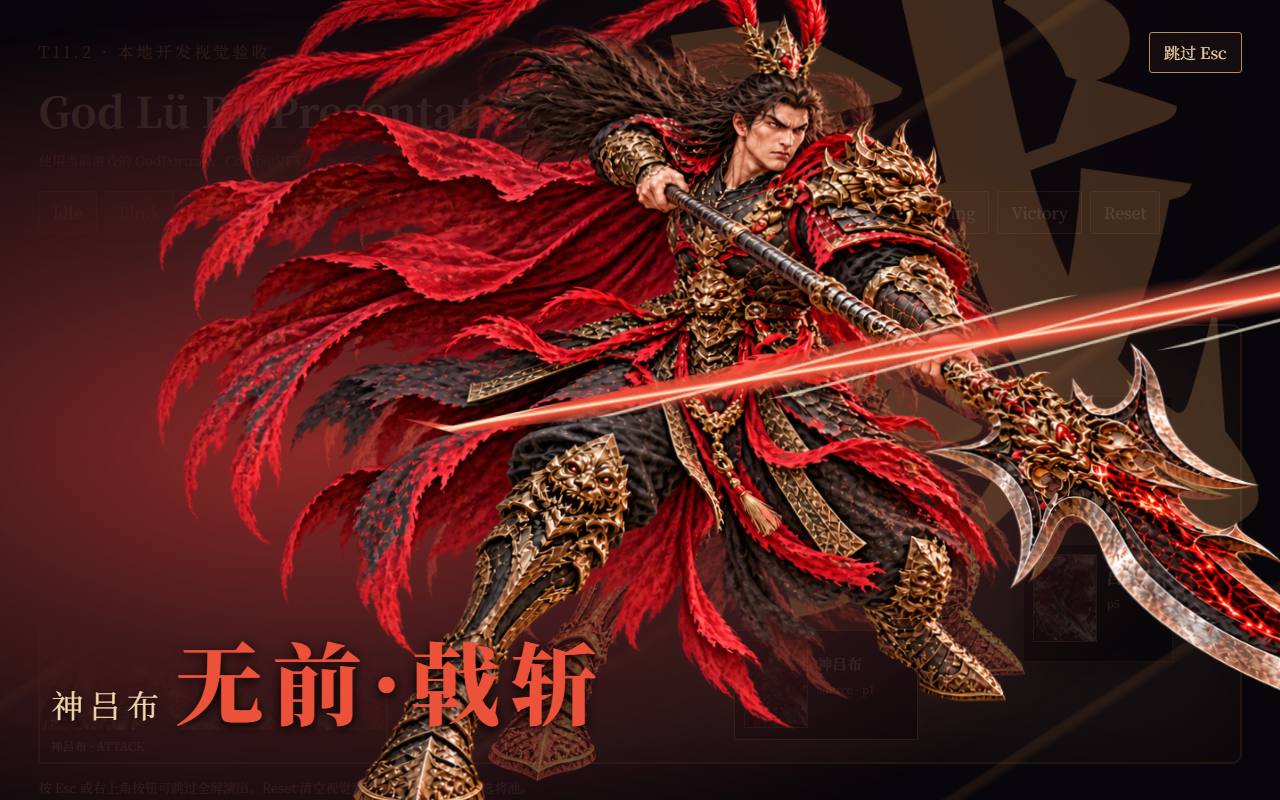
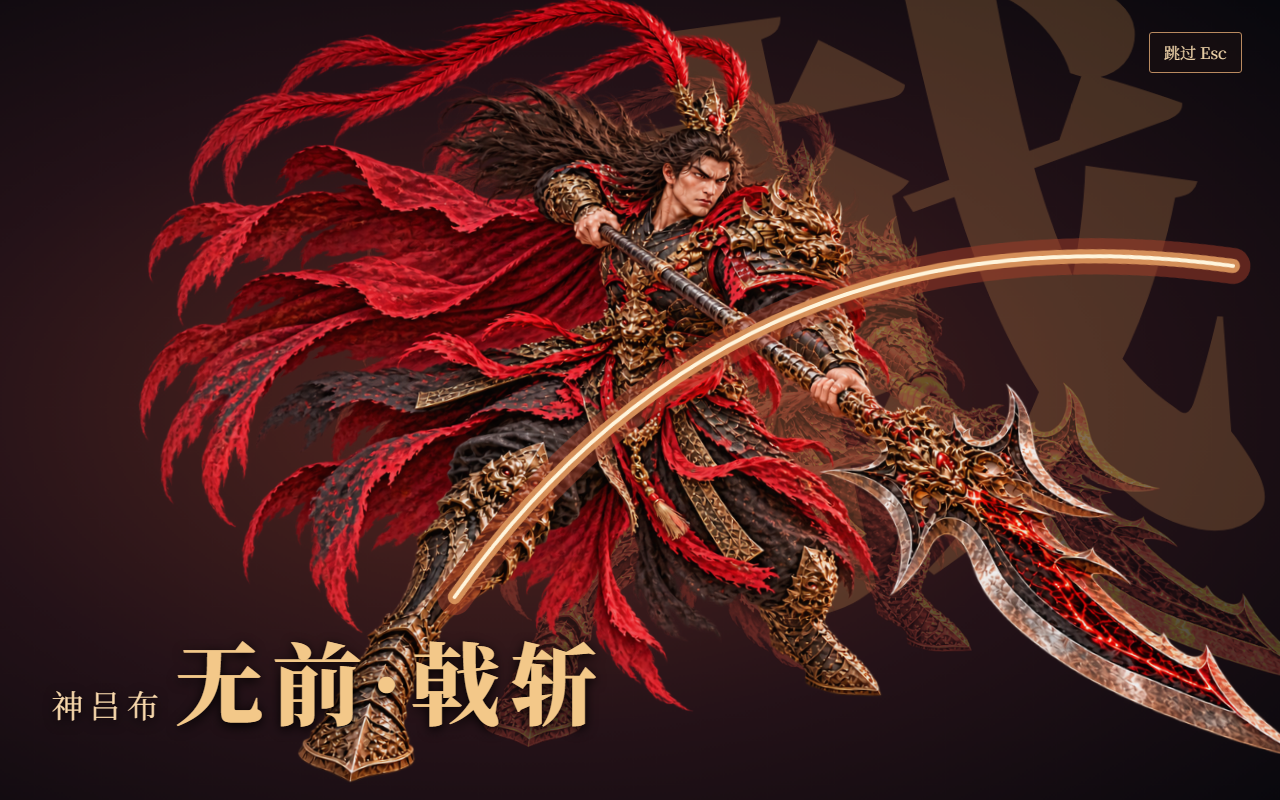
T11.3 unify Lu Bu attacks and fix cinematic resolution

diff --git a/web/src/styles.css b/web/src/styles.css
@@ -451,3 +451,59 @@ input:focus { border-color: #b07a23; box-shadow: 0 0 0 2px rgba(189,135,44,.18);
 
 /* Keep all five seats visible at the common 1366×768 review viewport. */
 .god-preview-hero, .god-preview-board { height: clamp(440px, 52vh, 570px); min-height: 0; }
+
+/* T11.3: one registered, sharp halberd strike for all five card definitions. */
+.god-cinematic-standard { --attack-color: #f3c889; --attack-glow: rgba(229,91,51,.46); }
+.god-cinematic-standard .god-cinematic-backdrop { background: radial-gradient(ellipse at 42% 51%, #572820 0, #241218 46%, #08080d 83%); }
+.god-cinematic-standard .god-cinematic-figure { animation: godStandardFigure var(--cinematic-ms) cubic-bezier(.18,.7,.28,1) both; }
+.god-cinematic-standard .god-cinematic-ready { animation: godStandardReady var(--cinematic-ms) linear both; }
+.god-cinematic-standard .god-cinematic-attack-pose { animation: godStandardPose var(--cinematic-ms) cubic-bezier(.16,.7,.26,1) both; }
+.god-cinematic-standard .god-cinematic-figure .god-body { animation: godStandardTorso var(--cinematic-ms) cubic-bezier(.16,.7,.24,1) both; }
+.god-cinematic-standard .god-cinematic-figure .god-head { animation: godStandardHead var(--cinematic-ms) ease-in-out both; }
+.god-cinematic-standard .god-cinematic-figure .god-strike-limb { animation: godStandardHalberd var(--cinematic-ms) cubic-bezier(.13,.75,.24,1) both; transform-origin: 680px 385px; }
+.god-cinematic-standard .god-cinematic-figure .god-hair-front,
+.god-cinematic-standard .god-cinematic-figure .god-hair-back { animation: godStandardHair var(--cinematic-ms) ease-out both; }
+.god-cinematic-standard .god-cinematic-figure .god-cloth-front,
+.god-cinematic-standard .god-cinematic-figure .god-cloth-back { animation: godStandardCloth var(--cinematic-ms) ease-out both; }
+.god-cinematic-blade { position: absolute; z-index: 4; left: 31%; top: 23%; width: 76%; height: 65%; overflow: visible; opacity: 0; transform-origin: 12% 80%; animation: godStandardBlade var(--cinematic-ms) cubic-bezier(.13,.72,.22,1) both; }
+.god-cinematic-blade-outer { fill: #a73022; opacity: .68; }
+.god-cinematic-blade-core { fill: #d77b3e; }
+.god-cinematic-blade-edge { fill: none; stroke: #fff5cd; stroke-width: 9; stroke-linecap: round; vector-effect: non-scaling-stroke; }
+.god-cinematic-standard .god-cinematic-impact { right: 9%; top: 37%; animation: godStandardImpact var(--cinematic-ms) ease-out both; }
+.god-cinematic-shockwave { position: absolute; z-index: 5; left: 49%; top: 48%; width: 74vmin; height: 74vmin; border: 4px solid #e5ab6c; border-radius: 50%; opacity: 0; transform: translate(-50%,-50%) scale(.1); animation: godShenfenWave var(--cinematic-ms) ease-out both; }
+.god-cinematic-medium .god-cinematic-shockwave { border-width: 2px; }
+.god-cinematic-low .god-cinematic-shockwave { display: none; }
+@keyframes godStandardFigure { 0% { opacity: 0; transform: translateX(-12%) scale(.94); } 15% { opacity: 1; transform: none; } 31% { transform: translate(-2%,-2%) rotate(-2deg); } 52% { transform: translate(8%,1%) rotate(3deg) scale(1.05); } 74% { transform: translate(7%,0) rotate(1deg); opacity: 1; } 100% { transform: translate(4%,0); opacity: 0; } }
+@keyframes godStandardReady { 0%,38% { opacity: 1; } 48%,100% { opacity: 0; } }
+@keyframes godStandardPose { 0%,38% { opacity: 0; transform: translate(-5%,3%) rotate(-4deg) scale(.96); } 49% { opacity: .95; transform: translate(0,-1%) rotate(0) scale(1.04); } 67% { opacity: .9; transform: translate(4%,0) scale(1.08); } 81%,100% { opacity: 0; transform: translate(8%,1%) scale(1.1); } }
+@keyframes godStandardTorso { 0%,18% { transform: none; } 34% { transform: translate(-12px,-15px) rotate(-3deg); } 53% { transform: translate(25px,13px) rotate(4deg); } 72% { transform: translate(9px,5px) rotate(1deg); } 100% { transform: none; } }
+@keyframes godStandardHead { 0%,20% { transform: none; } 34% { transform: translate(-5px,-11px) rotate(-3deg); } 54% { transform: translate(13px,6px) rotate(3deg); } 78%,100% { transform: none; } }
+@keyframes godStandardHalberd { 0%,14% { transform: rotate(-3deg); } 32% { transform: rotate(-19deg) translate(-20px,14px); } 51% { transform: rotate(24deg) translate(39px,-34px); } 66% { transform: rotate(34deg) translate(45px,-28px); } 83% { transform: rotate(-7deg) translate(6px,4px); } 100% { transform: none; } }
+@keyframes godStandardHair { 0% { transform: none; } 32% { transform: translate(-9px,-7px) rotate(-3deg); } 54% { transform: translate(19px,2px) rotate(5deg); } 77% { transform: translate(-7px,3px) rotate(-2deg); } 100% { transform: none; } }
+@keyframes godStandardCloth { 0% { transform: none; } 32% { transform: translate(-10px,3px) rotate(-2deg); } 54% { transform: translate(-31px,15px) rotate(-6deg); } 78% { transform: translate(13px,-5px) rotate(2deg); } 100% { transform: none; } }
+@keyframes godStandardBlade { 0%,39% { opacity: 0; transform: rotate(-30deg) scale(.18,.45); } 48% { opacity: 1; transform: rotate(-12deg) scale(.72,.85); } 59% { opacity: 1; transform: rotate(0) scale(1); } 75%,100% { opacity: 0; transform: rotate(5deg) scale(1.2,1.05); } }
+@keyframes godStandardImpact { 0%,52% { opacity: 0; transform: scale(.25); } 66% { opacity: 1; transform: scale(1.05); } 100% { opacity: 0; transform: scale(1.6); } }
+@keyframes godShenfenWave { 0%,48% { opacity: 0; transform: translate(-50%,-50%) scale(.1); } 65% { opacity: .8; transform: translate(-50%,-50%) scale(1); } 100% { opacity: 0; transform: translate(-50%,-50%) scale(2); } }
+.god-cinematic-reduced .god-cinematic-blade { animation: none !important; opacity: .85; transform: none; }
+.god-cinematic-reduced .god-cinematic-shockwave { display: none; }
+.god-cinematic-reduced .god-cinematic-figure .god-part,
+.god-cinematic-reduced .god-cinematic-figure .god-strike-limb { animation: none !important; transform: none !important; }
+@media (prefers-reduced-motion: reduce) { .god-cinematic-blade, .god-cinematic-shockwave { animation: none !important; } }
+
+/* Keep the reusable strike crisp at desktop scale: three vector strokes, no blur filter. */
+.god-cinematic-blade path { fill: none; stroke-linecap: round; vector-effect: non-scaling-stroke; }
+.god-cinematic-blade-outer { stroke: #a43c29; stroke-width: 38; opacity: .5; }
+.god-cinematic-blade-core { stroke: #d9935b; stroke-width: 15; opacity: .95; }
+.god-cinematic-blade-edge { stroke: #fff5dc; stroke-width: 4; }
+
+/* A 1536px source never expands to the old 95vw war-spirit width at 1080p. */
+.god-cinematic-level-3 .god-cinematic-war-spirit { width: min(80vw, 1536px); }
+/* Medium retains full resolution foreground art while omitting one costly background echo. */
+.god-cinematic-medium.god-cinematic-level-3 .god-cinematic-war-spirit { display: none; }
+
+/* Keep the vector blade at the halberd tip instead of spanning the entire screen. */
+.god-cinematic-blade { left: 44%; top: 34%; width: 52%; height: 43%; }
+.god-cinematic-blade path { stroke-linecap: butt; stroke-linejoin: miter; }
+.god-cinematic-blade-outer { stroke: #6d261f; stroke-width: 25; opacity: .62; }
+.god-cinematic-blade-core { stroke: #bb7951; stroke-width: 10; }
+.god-cinematic-blade-edge { stroke: #fff6df; stroke-width: 3; }

diff --git a/web/src/components/GodCinematic.tsx b/web/src/components/GodCinematic.tsx
@@ -6,7 +6,6 @@ export type GodCinematicTarget = { id: string; x: number; y: number }
 export type GodCinematicCue = {
   id: number
   level: 1 | 2 | 3
-  nature: 'normal' | 'fire' | 'thunder'
   title?: string
   targets: GodCinematicTarget[]
 }
@@ -34,10 +33,12 @@ export function GodCinematic({ cue, quality, reducedMotion, onComplete }: {
     window.addEventListener('keydown', skip)
     return () => { window.clearTimeout(timer); window.removeEventListener('keydown', skip) }
   }, [cue.id, cue.level, onComplete, reduced, captureHold])
-  const imageExtension = quality === 'high' ? '.png' : '_medium.webp'
+  // The 960 px medium sheets visibly upscale in a 1080p cinematic.
+  // Full resolution source art is shared by High and Medium; Low alone uses compact sheets.
+  const imageExtension = quality === 'low' ? '_medium.webp' : '.png'
   const asset = (name: string) => '/assets/gods/forest_god_lvbu/' + name + imageExtension
   const css = { '--cinematic-ms': (reduced ? 240 : duration[cue.level]) + 'ms' } as CSSProperties
-  return <div className={'god-cinematic god-cinematic-level-' + cue.level + ' god-cinematic-' + cue.nature + ' god-cinematic-' + quality + (reduced ? ' god-cinematic-reduced' : '')}
+  return <div className={'god-cinematic god-cinematic-level-' + cue.level + ' god-cinematic-standard god-cinematic-' + quality + (reduced ? ' god-cinematic-reduced' : '')}
     style={css} role="status" aria-label={'神吕布' + (cue.title ?? '攻击') + '演出'}>
     <div className="god-cinematic-dim" />
     <div className="god-cinematic-stage">
@@ -45,12 +46,17 @@ export function GodCinematic({ cue, quality, reducedMotion, onComplete }: {
       {cue.level === 3 && <img className="god-cinematic-crest" src={asset('shenfen')} alt="" />}
       {cue.level >= 2 && <div className="god-cinematic-war-spirit" aria-hidden="true"><img src={asset('attack')} alt="" /></div>}
       <div className="god-cinematic-figure">
-        <div className="god-cinematic-ready">{quality === 'high' ? <GodPortrait characterId="forest_god_lvbu" name="神吕布" quality="high" mode="idle" cue={cue.id} /> : <img className="god-cinematic-ready-image" src={asset('body')} alt="" />}</div>
+        <div className="god-cinematic-ready">{quality === 'high' ? <GodPortrait characterId="forest_god_lvbu" name="神吕布" quality="high" mode="idle" cue={cue.id} reducedMotion={reduced} /> : <img className="god-cinematic-ready-image" src={asset('body')} alt="" />}</div>
         <img className="god-cinematic-attack-pose" src={asset('attack')} alt="" />
       </div>
-      <div className="god-cinematic-slash" />
-      {cue.nature !== 'normal' && <img className="god-cinematic-elemental" src={asset(cue.nature + '_slash')} alt="" />}
-      <div className="god-cinematic-name"><span>神吕布</span><strong>{cue.title ?? (cue.nature === 'fire' ? '火杀' : cue.nature === 'thunder' ? '雷杀' : '杀')}</strong></div>
+      <svg className="god-cinematic-blade" viewBox="0 0 1600 700" preserveAspectRatio="none" aria-hidden="true">
+        <path className="god-cinematic-blade-outer" d="M 95 590 L 420 360 L 960 158 L 1510 90" />
+        <path className="god-cinematic-blade-core" d="M 95 590 L 420 360 L 960 158 L 1510 90" />
+        <path className="god-cinematic-blade-edge" d="M 95 590 L 420 360 L 960 158 L 1510 90" />
+      </svg>
+      <div className="god-cinematic-impact"><i /><i /><i /><i /><i /></div>
+      {cue.level === 3 && <div className="god-cinematic-shockwave" aria-hidden="true" />}
+      <div className="god-cinematic-name"><span>神吕布</span><strong>{cue.title ?? (cue.level === 3 ? '神愤' : '无双戟击')}</strong></div>
     </div>
     <div className="god-cinematic-targets" aria-hidden="true">{cue.targets.map((target, index) =>
       <i key={target.id} data-target-id={target.id} style={{ left: target.x + '%', top: target.y + '%',

diff --git a/web/src/components/GodShowcase.tsx b/web/src/components/GodShowcase.tsx
@@ -54,10 +54,11 @@ export function GodShowcase() {
   }
   const playAttack = (definition: string, level: 1 | 2 = 1) => {
     portrait('attack')
-    setBeamTargets(['p2'])
-    if (level === 2) emit([{ kind: 'GodSkillEvent', source_id: 'p1', target_ids: ['p2'], skill_id: 'wuwei', level: 2 }])
-    emit([{ kind: 'CardUsedEvent', source_id: 'p1', target_ids: ['p2'], definition_id: definition }])
-    later(() => impact('p2'), level === 2 ? 850 : 620)
+    const targets = definition.startsWith('trick.') ? targetArt.map((target) => target.id) : ['p2']
+    setBeamTargets(targets)
+    if (level === 2) emit([{ kind: 'GodSkillEvent', source_id: 'p1', target_ids: targets, skill_id: 'wuwei', level: 2 }])
+    emit([{ kind: 'CardUsedEvent', source_id: 'p1', target_ids: targets, definition_id: definition }])
+    targets.forEach((id, index) => later(() => impact(id), (level === 2 ? 850 : 620) + index * 90))
     later(() => setBeamTargets([]), level === 2 ? 1250 : 1000)
   }
   const shenfen = () => {
@@ -83,7 +84,7 @@ export function GodShowcase() {
 
   return <main className={'god-showcase god-presentation-preview' + (reducedMotion ? ' god-preview-reduced' : '')}>
     <header>
-      <p>T11.2 · 本地开发视觉验收</p>
+      <p>T11.3 · 神吕布本地开发视觉验收</p>
       <h1>God Lü Bu Presentation Preview</h1>
       <small>使用当前游戏的 GodPortrait、CombatVFXLayer、GodCinematic 运行组件；按钮只注入视觉事件，不结算伤害或修改规则。</small>
     </header>
@@ -94,6 +95,8 @@ export function GodShowcase() {
       <button onClick={() => playAttack('basic.slash')}>Normal Slash</button>
       <button onClick={() => playAttack('basic.fire_slash')}>Fire Slash</button>
       <button onClick={() => playAttack('basic.thunder_slash')}>Thunder Slash</button>
+      <button onClick={() => playAttack('trick.savage_assault')}>Savage Assault</button>
+      <button onClick={() => playAttack('trick.archery_attack')}>Archery Attack</button>
       <button onClick={() => playAttack('basic.slash', 2)}>Level 2</button>
       <button onClick={shenfen}>Shenfen</button>
       <button onClick={() => portrait('hit')}>Hit</button>
@@ -123,6 +126,6 @@ export function GodShowcase() {
         <CombatVFXLayer key={stageKey} players={players} targets={beamTargets} mode="attack" events={events} quality={quality} reducedMotion={reducedMotion} />
       </section>
     </div>
-    <p className="god-preview-note">按 Esc 或右上角按钮可跳过全屏演出。Reset 清空视觉事件；此页不进入正式选将池。</p>
+    <p className="god-preview-note">五类牌共用同一套 Level 1 戟击；群攻对四名目标逐个反馈。按 Esc 可跳过。Reset 清空视觉事件；此页不进入正式选将池。</p>
   </main>
 }

diff --git a/web/e2e/t11_god_cinematic.spec.ts b/web/e2e/t11_god_cinematic.spec.ts
@@ -4,27 +4,33 @@ import path from 'node:path'
 
 const review = path.resolve(process.cwd(), '../docs/t11/god_art/review')
 
-test('Lu Bu Slash, fire, thunder and Shenfen show the character in a full-screen attack', async ({ page }) => {
+test('Lu Bu five cards share one standard cinematic and three levels render', async ({ page }) => {
   test.setTimeout(60000)
   fs.mkdirSync(review, { recursive: true })
   await page.setViewportSize({ width: 1280, height: 800 })
   await page.goto('/t11/god-lvbu-preview')
   await expect(page.locator('.god-preview-board .player-panel')).toHaveCount(5)
   await expect(page.locator('.god-preview-board .combat-vfx-layer')).toBeVisible()
-  for (const [button, nature, name] of [
-    ['Normal Slash', 'normal', 'slash'],
-    ['Fire Slash', 'fire', 'fire'],
-    ['Thunder Slash', 'thunder', 'thunder'],
-    ['Level 2', 'normal', 'level2'],
-    ['Shenfen', 'normal', 'shenfen'],
+  for (const [button, name] of [
+    ['Normal Slash', 'slash'],
+    ['Fire Slash', 'fire'],
+    ['Thunder Slash', 'thunder'],
+    ['Savage Assault', 'savage'],
+    ['Archery Attack', 'archery'],
+    ['Level 2', 'level2'],
+    ['Shenfen', 'shenfen'],
   ]) {
     await page.getByRole('button', { name: button }).click()
     const overlay = page.locator('.god-cinematic')
     await expect(overlay).toBeVisible()
-    await expect(overlay).toHaveClass(new RegExp('god-cinematic-' + nature))
+    await expect(overlay).toHaveClass(/god-cinematic-standard/)
+    await expect(overlay.locator('.god-cinematic-blade')).toHaveCount(1)
+    await expect(overlay.locator('.god-cinematic-elemental')).toHaveCount(0)
     await expect(overlay.locator('.god-cinematic-attack-pose')).toBeVisible()
-    if (name === 'shenfen') await expect(overlay.locator('.god-cinematic-targets i')).toHaveCount(4)
+    if (['savage', 'archery', 'shenfen'].includes(name)) await expect(overlay.locator('.god-cinematic-targets i')).toHaveCount(4)
     await page.waitForTimeout(name === 'shenfen' ? 1050 : 460)
+    if (['slash', 'level2', 'shenfen'].includes(name))
+      await page.screenshot({ path: path.join(review, 'god_lvbu_cinematic_' + name + '.png') })
     if (name === 'slash') {
       const drawn = await page.locator('.god-preview-board canvas').evaluate((node) => {
         const canvas = node as HTMLCanvasElement
@@ -33,7 +39,6 @@ test('Lu Bu Slash, fire, thunder and Shenfen show the character in a full-screen
       })
       expect(drawn).toBe(true)
     }
-    await page.screenshot({ path: path.join(review, 'god_lvbu_cinematic_' + name + '.png') })
     if (await overlay.count()) await page.keyboard.press('Escape')
     await expect(overlay).toHaveCount(0)
   }

diff --git a/web/src/components/CombatVFXLayer.tsx b/web/src/components/CombatVFXLayer.tsx
@@ -52,17 +52,17 @@ export function CombatVFXLayer({ players, targets, mode, events, quality, reduce
       const sourceCharacter = players.find((player) => player.player_id === source)?.character_id
       const godColor = godAttackColor(sourceCharacter ?? '', definition)
       const color = godColor ?? (definition.includes('fire') ? '#fa7837' : definition.includes('thunder') ? '#9ca9ff' : '#efbd67')
-      if (kind === 'CardUsedEvent' && definition.includes('slash')) {
+      if (kind === 'CardUsedEvent' && (definition.includes('slash') || (sourceCharacter === 'forest_god_lvbu' && (definition === 'trick.savage_assault' || definition === 'trick.archery_attack')))) {
         const targetIds = Array.isArray(event.target_ids) ? event.target_ids.map(String) : []
         const luBu = sourceCharacter === 'forest_god_lvbu'
         const empowered = luBu && wuweiReady.current.has(source)
         if (empowered) wuweiReady.current.delete(source)
         if (luBu) setCinematics((queue) => [...queue, {
           id: ++nextCue.current, level: empowered ? 2 : 1,
-          nature: definition.includes('fire') ? 'fire' : definition.includes('thunder') ? 'thunder' : 'normal',
-          title: empowered ? '无前·戟斩' : undefined, targets: locateTargets(targetIds),
+          title: empowered ? '无前·戟斩' : definition === 'trick.savage_assault' ? '南蛮入侵' : definition === 'trick.archery_attack' ? '万箭齐发' : undefined,
+          targets: locateTargets(targetIds),
         }])
-        const launch = () => { for (const target of targetIds) runtime.current?.trigger(godColor ? 'god-slash' : 'slash', source, target, color, sourceCharacter) }
+        const launch = () => { for (const target of targetIds) runtime.current?.trigger(luBu || godColor ? 'god-slash' : 'slash', source, target, luBu ? '#f0c78c' : color, sourceCharacter) }
         if (luBu) {
           const timer = window.setTimeout(() => { launchTimers.current.delete(timer); launch() }, 350)
           launchTimers.current.add(timer)
@@ -73,7 +73,7 @@ export function CombatVFXLayer({ players, targets, mode, events, quality, reduce
         const targetIds = Array.isArray(event.target_ids) ? event.target_ids.map(String) : []
         if (skill === 'wuwei') { wuweiReady.current.add(source); continue }
         setCinematics((queue) => [...queue, {
-          id: ++nextCue.current, level: 3, nature: 'normal',
+          id: ++nextCue.current, level: 3,
           title: '神愤', targets: locateTargets(targetIds),
         }])
       } else if ((kind === 'CardRespondedEvent' || kind === 'VirtualResponseEvent') && definition === 'basic.dodge') {

diff --git a/web/e2e/t11_lvbu_resolution.spec.ts b/web/e2e/t11_lvbu_resolution.spec.ts
@@ -1,0 +1,44 @@
+import { expect, test } from '@playwright/test'
+import path from 'node:path'
+
+const review = path.resolve(process.cwd(), '../docs/t11/god_art/review/lvbu_final')
+
+test('1920x1080 medium cinematic keeps full resolution artwork and sharp vector blade', async ({ page }) => {
+  await page.setViewportSize({ width: 1920, height: 1080 })
+  await page.goto('/t11/god-lvbu-preview?t11_capture=1')
+  await page.getByLabel('Quality').selectOption('medium')
+  for (const [button, file, frame] of [
+    ['Normal Slash', 't11_3_attack_1920.png', 550],
+    ['Shenfen', 't11_3_shenfen_1920.png', 1150],
+  ] as const) {
+    await page.getByRole('button', { name: button }).click()
+    const overlay = page.locator('.god-cinematic')
+    await expect(overlay).toBeVisible()
+    await overlay.locator('img').evaluateAll(async (images) => {
+      await Promise.all(images.map((node) => (node as HTMLImageElement).decode()))
+    })
+    await overlay.evaluate((node, position) => {
+      node.getAnimations({ subtree: true }).forEach((animation) => {
+        animation.pause()
+        animation.currentTime = position
+      })
+    }, frame)
+    const resolution = await page.evaluate(() => {
+      const canvas = document.querySelector('.god-preview-board canvas') as HTMLCanvasElement
+      const art = Array.from(document.querySelectorAll<HTMLImageElement>('.god-cinematic-attack-pose, .god-cinematic-crest, .god-cinematic-ready-image'))
+      return {
+        viewport: [innerWidth, innerHeight], dpr: devicePixelRatio, zoom: visualViewport?.scale,
+        canvas: [canvas.width, canvas.height, canvas.getBoundingClientRect().width, canvas.getBoundingClientRect().height],
+        art: art.map((image) => ({ source: image.naturalWidth, displayed: image.getBoundingClientRect().width })),
+      }
+    })
+    expect(resolution.viewport).toEqual([1920, 1080])
+    expect(resolution.dpr).toBe(1)
+    expect(resolution.zoom).toBe(1)
+    expect(resolution.canvas[0]).toBeGreaterThanOrEqual(resolution.canvas[2])
+    for (const image of resolution.art) expect(image.source).toBeGreaterThanOrEqual(image.displayed)
+    await page.screenshot({ path: path.join(review, file) })
+    await page.keyboard.press('Escape')
+    await expect(overlay).toHaveCount(0)
+  }
+})

diff --git a/web/src/vfx/CombatVFXRuntime.ts b/web/src/vfx/CombatVFXRuntime.ts
@@ -74,9 +74,15 @@ export class CombatVFXRuntime {
     this.width = rect.width
     this.height = rect.height
     const dpr = Math.min(devicePixelRatio || 1, this.quality === 'high' ? 2 : this.quality === 'medium' ? 1.5 : 1)
-    this.canvas.width = Math.round(rect.width * dpr)
-    this.canvas.height = Math.round(rect.height * dpr)
-    this.ctx?.setTransform(dpr, 0, 0, dpr, 0, 0)
+    const backingWidth = Math.round(rect.width * dpr)
+    const backingHeight = Math.round(rect.height * dpr)
+    if (this.canvas.width !== backingWidth) this.canvas.width = backingWidth
+    if (this.canvas.height !== backingHeight) this.canvas.height = backingHeight
+    if (this.ctx) {
+      this.ctx.setTransform(dpr, 0, 0, dpr, 0, 0)
+      this.ctx.imageSmoothingEnabled = true
+      this.ctx.imageSmoothingQuality = 'high'
+    }
     this.refreshBeam()
   }
 

diff --git a/docs/t11/god_art/review/lvbu_final/T11_3.md b/docs/t11/god_art/review/lvbu_final/T11_3.md
@@ -1,0 +1,19 @@
+# T11.3 神吕布阶段验收
+
+状态：**PARTIAL**。本轮修复了 Medium 全屏演出放大低清素材的问题，并让五类牌共用一套 Level 1 戟击。人物待机与动作仍需用户在实际浏览器中判断；1920×1080 下的流畅度尚未在分辨率修复后重新量化，因此不报 PASS。
+
+## 本地查看
+
+双击项目根目录的 `preview_lvbu.cmd`，会启动本地后端与 Web 前端并打开现有 `/t11/god-lvbu-preview` 验收页。双击 `STOP_PREVIEW.cmd` 关闭本次启动的服务。预览只读取项目现有本地资源，不调用 AI、图像生成或外部 API。若 8000 或 5173 端口已被占用，脚本明确提示且不会重复启动。
+
+页面中的 `Idle`、`Entry`、`Hit`、`Dying`、`Victory` 用于看人物动作。`Normal Slash`、`Fire Slash`、`Thunder Slash`、`Savage Assault`、`Archery Attack` 均播放同一套 Level 1；两个群攻按钮会对四名目标反馈。`Level 2` 为无前强化攻击，`Shenfen` 为 Level 3。`Quality` 切换 High / Medium / Low；`Reduced Motion` 可检查低动态，Esc 可跳过。
+
+## 分辨率修复与证据
+
+- Canvas backing 尺寸按 CSS 尺寸乘以 DPR 建立，High 上限 2、Medium 上限 1.5；明确启用高质量图像平滑。
+- High 与 Medium 的全屏核心人物、神愤前景使用原尺寸 PNG，Low 才使用缩图。Medium 的神愤减少一层背景残像，保留人物和爆发前景。
+- 删除跨屏粗橙色月牙；统一攻击使用矢量戟锋轨迹，随分辨率保持锐利。
+- 1920×1080、浏览器缩放 100% 的 [统一攻击截图](t11_3_attack_1920.png) 与 [神愤截图](t11_3_shenfen_1920.png)。定向测试验证源图片宽度不小于显示宽度。
+- Web 构建、五类牌共享演出与跳过测试、1920×1080 分辨率测试通过。完整性能回归和主观动作质量验收仍待完成。
+
+项目内 `.venv` 和 `web/node_modules` 已安装时，一键预览无需联网。
